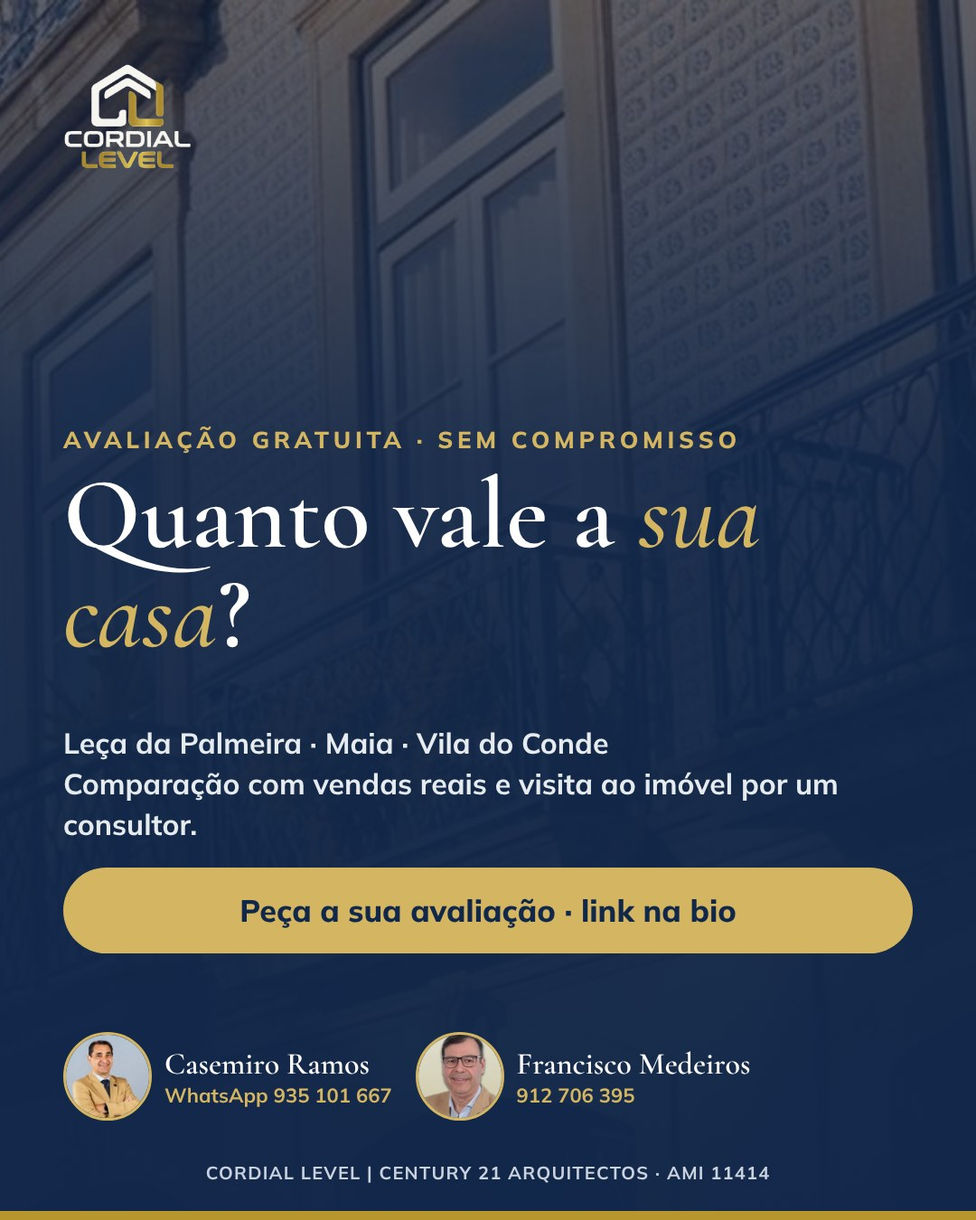
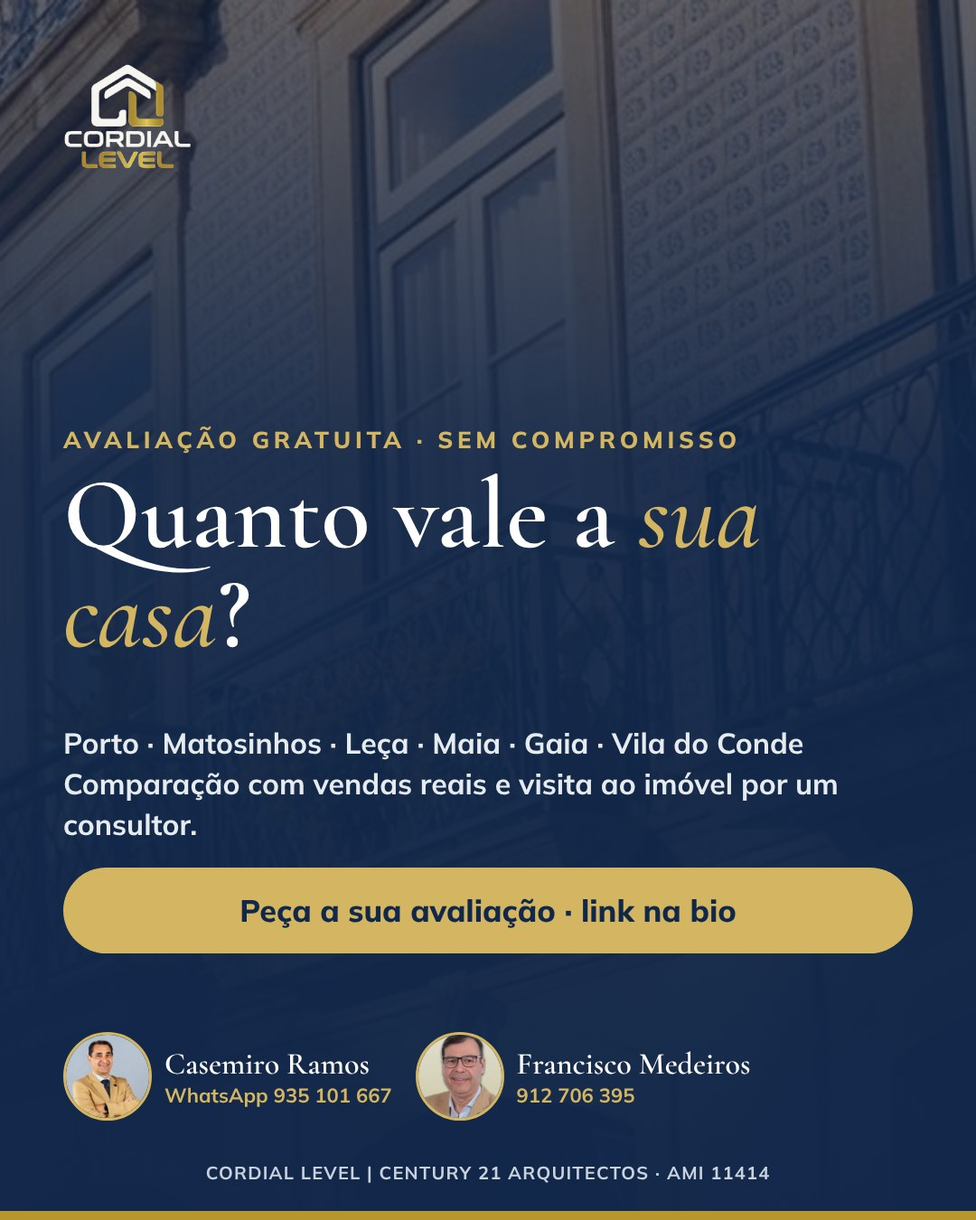
Avaliação Cordial: acrescenta Porto, Matosinhos e Gaia (página, SEO, blog, artes)
Claude-Session: https://claude.ai/code/session_01UTHG5rydr4nbrXrko1Yt6o

Changed region(s): [[0.0611, 0.5911, 0.825, 0.6222]]

diff --git a/blog/index.html b/blog/index.html
@@ -236,7 +236,7 @@ document.addEventListener('click',function(e){var a=e.target.closest&&e.target.c
 
 <header class="bh"><div class="wrap"><span class="eb">Blog Usina Vídeos</span><h1>Bastidores, ideias e mercados.</h1>
   <p class="lead">O que fazemos, como fazemos e o que está a mudar nos setores com que trabalhamos.</p><div class="bcats"><span>Bastidores e making of</span><span>Comunicação e marketing digital</span><span>Mercados</span><span>Cases</span></div></div></header>
-<main class="wrap bgrid"><a class="bc" href="/blog/quanto-vale-a-sua-casa-avaliacao-cordial-level/" style="--c:var(--y)"><img src="/img/blog/avaliacao-cordial-level-t.jpg" alt="" loading="lazy"><div><span>Mercados</span><h3>Quanto vale a sua casa? Porque um valor de portal não é uma avaliação</h3><p>A Cordial Level lança a avaliação de imóveis gratuita em Leça da Palmeira, Maia e Vila do Conde: comparação com vendas reais, visita ao imóvel e pedido em dois minutos por WhatsApp.</p><em>15 de novembro de 2026 · Freire Neto</em></div></a><a class="bc" href="/blog/casas-mais-caras-que-rendimentos-portugal-eurostat/" style="--c:var(--r)"><img src="/img/blog/racio-casas-rendimentos-t.jpg" alt="" loading="lazy"><div><span>Mercados</span><h3>Casas 60,8% mais caras face aos rendimentos: o que o dado do Eurostat significa para quem compra e para quem vende</h3><p>Entre 2015 e 2025, o rácio entre o preço das casas e os rendimentos subiu 60,8% em Portugal, a maior subida da UE (média: 6,8%). O comentário do Panorama Imobiliário.</p><em>10 de novembro de 2026 · Freire Neto</em></div></a><a class="bc" href="/blog/do-papel-a-tela-foz-do-douro/" style="--c:var(--g)"><img src="/img/blog/foz-do-papel-a-tela-t.jpg" alt="" loading="lazy"><div><span>Bastidores e making of</span><h3>Do papel à tela: um voo pela Foz do Douro</h3><p>Drone e câmara na mão pela Foz do Douro, dos molhes ao Jardim do Passeio Alegre: o novo filme de bastidores da Usina Vídeos, com Freire Neto e Sandra Freire.</p><em>9 de novembro de 2026 · Freire Neto</em></div></a><a class="bc" href="/blog/cordial-level-nas-lives-motores-e-acao/" style="--c:var(--y)"><img src="/img/blog/merchan-cordial-mea.jpg" alt="" loading="lazy"><div><span>Cases</span><h3>Cordial Level estreia-se nas lives do Motores e Ação</h3><p>A partir de agora, a Cordial Level é exibida e divulgada nas lives do Motores e Ação. A estreia foi na sexta-feira, 6 de novembro, com Freire Neto.</p><em>7 de novembro de 2026 · Freire Neto</em></div></a><a class="bc" href="/blog/t2-perafita-cordial-level/" style="--c:var(--r)"><img src="/img/blog/perafita-t2-t.jpg" alt="" loading="lazy"><div><span>Mercados</span><h3>T2 em Perafita: uma oportunidade especial com a Cordial Level</h3><p>Já à venda: T2 remodelado em Perafita, Matosinhos, com 83 m², lugar de garagem e arrumos, ao lado da A28, por 258 000 €. Vídeo com Francisco Medeiros e visita virtual 3D.</p><em>4 de novembro de 2026 · Freire Neto</em></div></a><a class="bc" href="/blog/em-breve-t2-perafita-moradia-senhora-da-hora/" style="--c:var(--g)"><img src="/img/blog/em-breve/moradia-drone-t.jpg" alt="" loading="lazy"><div><span>Bastidores e making of</span><h3>Em breve: T2 em Perafita e moradia T3+T2+T2 na Senhora da Hora</h3><p>Dias de gravação na CENTURY 21: dois imóveis em Matosinhos chegam em breve às redes sociais e aos portais. Saiba como ser o primeiro a conhecer os detalhes.</p><em>3 de novembro de 2026 · Freire Neto</em></div></a><a class="bc" href="/blog/dois-sites-novos-usinavideos-motoreseacao/" style="--c:var(--y)"><img src="/img/blog/sites-novos/capa-t.jpg" alt="" loading="lazy"><div><span>Cases</span><h3>Dois sites novos no ar: usinavideos.pt e motoreseacao.com</h3><p>A Usina Vídeos e o Motores e Ação estrearam sites novos. Mostramos as capas, as secções e o que cada um oferece.</p><em>2 de novembro de 2026 · Freire Neto</em></div></a><a class="bc" href="/blog/panorama-imobiliario-credito-jovem-2027/" style="--c:var(--r)"><img src="/web-stories/panorama-credito-jovem-2027/img/capa-blog-t.jpg" alt="" loading="lazy"><div><span>Mercados</span><h3>Panorama Imobiliário PT: crédito jovem em 2027 e três imóveis para conhecer</h3><p>No novo episódio, Francisco Medeiros e Freire Neto falam do mercado, da angariação e do crédito jovem, e apresentam três imóveis da Cordial Level.</p><em>29 de outubro de 2026 · Freire Neto</em></div></a><a class="bc" href="/blog/credito-jovem-comprar-casa-sem-entrada/" style="--c:var(--g)"><img src="/cordiallevel/anteroquental/img/aq-1-t.jpg" alt="" loading="lazy"><div><span>Mercados</span><h3>Crédito jovem: tem menos de 35 anos? Saiba como comprar casa sem entrada</h3><p>Garantia pública de até 15% e isenção de IMT e Imposto do Selo: quem tem direito, o que é preciso e até quando, em 2026.</p><em>27 de outubro de 2026 · Freire Neto</em></div></a><a class="bc" href="/blog/home-staging-antes-da-reportagem/" style="--c:var(--y)"><img src="/cordiallevel/t3leca/img/leca-1-t.jpg" alt="" loading="lazy"><div><span>Comunicação e marketing digital</span><h3>Home staging: o que fazer antes da sessão de fotografia e vídeo</h3><p>Arrumação, limpeza, luz e a ajuda de proprietários, inquilinos e consultor: o checklist para fotos e vídeos de imóveis que geram contactos.</p><em>27 de outubro de 2026 · Freire Neto</em></div></a><a class="bc" href="/blog/bastidores-condominio-coral-foz/" style="--c:var(--r)"><img src="/img/coral-fachada-t.jpg" alt="" loading="lazy"><div><span>Bastidores e making of</span><h3>Bastidores: como produzimos o T4+1 do Condomínio Coral, na Foz</h3><p>Fotografia, drone, vídeo com a consultora e uma página em quatro línguas: o making of de um imóvel premium na Foz do Douro.</p><em>27 de outubro de 2026 · Freire Neto</em></div></a><a class="bc" href="/blog/5-regras-video-que-gera-contactos/" style="--c:var(--g)"><img src="/img/foz-drone-t.jpg" alt="" loading="lazy"><div><span>Comunicação e marketing digital</span><h3>5 regras para um vídeo que gera contactos</h3><p>Gancho, legendas, formatos, contacto no ecrã e resposta rápida: o que separa um vídeo bonito de um vídeo que traz clientes.</p><em>27 de outubro de 2026 · Freire Neto</em></div></a><a class="bc" href="/blog/usina-videos-e-motores-e-acao/" style="--c:var(--y)"><img src="/img/mea-toro-t.jpg" alt="" loading="lazy"><div><span>Cases</span><h3>Usina Vídeos e Motores e Ação: a mesma casa desde 2002</h3><p>A produtora e a marca de jornalismo automóvel nasceram juntas. O que uma aprende, a outra aplica.</p><em>27 de outubro de 2026 · Freire Neto</em></div></a></main>
+<main class="wrap bgrid"><a class="bc" href="/blog/quanto-vale-a-sua-casa-avaliacao-cordial-level/" style="--c:var(--y)"><img src="/img/blog/avaliacao-cordial-level-t.jpg" alt="" loading="lazy"><div><span>Mercados</span><h3>Quanto vale a sua casa? Porque um valor de portal não é uma avaliação</h3><p>A Cordial Level lança a avaliação de imóveis gratuita no Porto, Matosinhos, Leça da Palmeira, Maia, Gaia e Vila do Conde: comparação com vendas reais, visita ao imóvel e pedido em dois minutos por WhatsApp.</p><em>15 de novembro de 2026 · Freire Neto</em></div></a><a class="bc" href="/blog/casas-mais-caras-que-rendimentos-portugal-eurostat/" style="--c:var(--r)"><img src="/img/blog/racio-casas-rendimentos-t.jpg" alt="" loading="lazy"><div><span>Mercados</span><h3>Casas 60,8% mais caras face aos rendimentos: o que o dado do Eurostat significa para quem compra e para quem vende</h3><p>Entre 2015 e 2025, o rácio entre o preço das casas e os rendimentos subiu 60,8% em Portugal, a maior subida da UE (média: 6,8%). O comentário do Panorama Imobiliário.</p><em>10 de novembro de 2026 · Freire Neto</em></div></a><a class="bc" href="/blog/do-papel-a-tela-foz-do-douro/" style="--c:var(--g)"><img src="/img/blog/foz-do-papel-a-tela-t.jpg" alt="" loading="lazy"><div><span>Bastidores e making of</span><h3>Do papel à tela: um voo pela Foz do Douro</h3><p>Drone e câmara na mão pela Foz do Douro, dos molhes ao Jardim do Passeio Alegre: o novo filme de bastidores da Usina Vídeos, com Freire Neto e Sandra Freire.</p><em>9 de novembro de 2026 · Freire Neto</em></div></a><a class="bc" href="/blog/cordial-level-nas-lives-motores-e-acao/" style="--c:var(--y)"><img src="/img/blog/merchan-cordial-mea.jpg" alt="" loading="lazy"><div><span>Cases</span><h3>Cordial Level estreia-se nas lives do Motores e Ação</h3><p>A partir de agora, a Cordial Level é exibida e divulgada nas lives do Motores e Ação. A estreia foi na sexta-feira, 6 de novembro, com Freire Neto.</p><em>7 de novembro de 2026 · Freire Neto</em></div></a><a class="bc" href="/blog/t2-perafita-cordial-level/" style="--c:var(--r)"><img src="/img/blog/perafita-t2-t.jpg" alt="" loading="lazy"><div><span>Mercados</span><h3>T2 em Perafita: uma oportunidade especial com a Cordial Level</h3><p>Já à venda: T2 remodelado em Perafita, Matosinhos, com 83 m², lugar de garagem e arrumos, ao lado da A28, por 258 000 €. Vídeo com Francisco Medeiros e visita virtual 3D.</p><em>4 de novembro de 2026 · Freire Neto</em></div></a><a class="bc" href="/blog/em-breve-t2-perafita-moradia-senhora-da-hora/" style="--c:var(--g)"><img src="/img/blog/em-breve/moradia-drone-t.jpg" alt="" loading="lazy"><div><span>Bastidores e making of</span><h3>Em breve: T2 em Perafita e moradia T3+T2+T2 na Senhora da Hora</h3><p>Dias de gravação na CENTURY 21: dois imóveis em Matosinhos chegam em breve às redes sociais e aos portais. Saiba como ser o primeiro a conhecer os detalhes.</p><em>3 de novembro de 2026 · Freire Neto</em></div></a><a class="bc" href="/blog/dois-sites-novos-usinavideos-motoreseacao/" style="--c:var(--y)"><img src="/img/blog/sites-novos/capa-t.jpg" alt="" loading="lazy"><div><span>Cases</span><h3>Dois sites novos no ar: usinavideos.pt e motoreseacao.com</h3><p>A Usina Vídeos e o Motores e Ação estrearam sites novos. Mostramos as capas, as secções e o que cada um oferece.</p><em>2 de novembro de 2026 · Freire Neto</em></div></a><a class="bc" href="/blog/panorama-imobiliario-credito-jovem-2027/" style="--c:var(--r)"><img src="/web-stories/panorama-credito-jovem-2027/img/capa-blog-t.jpg" alt="" loading="lazy"><div><span>Mercados</span><h3>Panorama Imobiliário PT: crédito jovem em 2027 e três imóveis para conhecer</h3><p>No novo episódio, Francisco Medeiros e Freire Neto falam do mercado, da angariação e do crédito jovem, e apresentam três imóveis da Cordial Level.</p><em>29 de outubro de 2026 · Freire Neto</em></div></a><a class="bc" href="/blog/credito-jovem-comprar-casa-sem-entrada/" style="--c:var(--g)"><img src="/cordiallevel/anteroquental/img/aq-1-t.jpg" alt="" loading="lazy"><div><span>Mercados</span><h3>Crédito jovem: tem menos de 35 anos? Saiba como comprar casa sem entrada</h3><p>Garantia pública de até 15% e isenção de IMT e Imposto do Selo: quem tem direito, o que é preciso e até quando, em 2026.</p><em>27 de outubro de 2026 · Freire Neto</em></div></a><a class="bc" href="/blog/home-staging-antes-da-reportagem/" style="--c:var(--y)"><img src="/cordiallevel/t3leca/img/leca-1-t.jpg" alt="" loading="lazy"><div><span>Comunicação e marketing digital</span><h3>Home staging: o que fazer antes da sessão de fotografia e vídeo</h3><p>Arrumação, limpeza, luz e a ajuda de proprietários, inquilinos e consultor: o checklist para fotos e vídeos de imóveis que geram contactos.</p><em>27 de outubro de 2026 · Freire Neto</em></div></a><a class="bc" href="/blog/bastidores-condominio-coral-foz/" style="--c:var(--r)"><img src="/img/coral-fachada-t.jpg" alt="" loading="lazy"><div><span>Bastidores e making of</span><h3>Bastidores: como produzimos o T4+1 do Condomínio Coral, na Foz</h3><p>Fotografia, drone, vídeo com a consultora e uma página em quatro línguas: o making of de um imóvel premium na Foz do Douro.</p><em>27 de outubro de 2026 · Freire Neto</em></div></a><a class="bc" href="/blog/5-regras-video-que-gera-contactos/" style="--c:var(--g)"><img src="/img/foz-drone-t.jpg" alt="" loading="lazy"><div><span>Comunicação e marketing digital</span><h3>5 regras para um vídeo que gera contactos</h3><p>Gancho, legendas, formatos, contacto no ecrã e resposta rápida: o que separa um vídeo bonito de um vídeo que traz clientes.</p><em>27 de outubro de 2026 · Freire Neto</em></div></a><a class="bc" href="/blog/usina-videos-e-motores-e-acao/" style="--c:var(--y)"><img src="/img/mea-toro-t.jpg" alt="" loading="lazy"><div><span>Cases</span><h3>Usina Vídeos e Motores e Ação: a mesma casa desde 2002</h3><p>A produtora e a marca de jornalismo automóvel nasceram juntas. O que uma aprende, a outra aplica.</p><em>27 de outubro de 2026 · Freire Neto</em></div></a></main>
 <section style="padding:0 0 56px"><div class="wrap"><div class="sb sb-us"><div class="sb-t"><span class="sb-eb">Siga a Usina Vídeos</span><h3>Bastidores e trabalhos novos todas as semanas.</h3><p>Reportagens, making of, vlogs e vídeos imobiliários nas redes da Usina e no canal Dicas do Freire, no YouTube.</p></div><div class="sb-l"><a class="sb-i sb-ig" href="https://www.instagram.com/usina.videos" target="_blank" rel="noopener"><svg viewBox="0 0 24 24" aria-hidden="true"><defs><linearGradient id="igg" x1="0" y1="1" x2="1" y2="0"><stop offset="0" stop-color="#FEDA75"/><stop offset=".45" stop-color="#D62976"/><stop offset="1" stop-color="#4F5BD5"/></linearGradient></defs><rect x="2" y="2" width="20" height="20" rx="6" fill="url(#igg)"/><circle cx="12" cy="12" r="4.4" fill="none" stroke="#fff" stroke-width="2"/><circle cx="17.3" cy="6.7" r="1.3" fill="#fff"/></svg><span><b>Instagram</b><small>@usina.videos</small></span><em>Seguir →</em></a><a class="sb-i sb-fb" href="https://www.facebook.com/profile.php?id=61596609981238" target="_blank" rel="noopener"><svg viewBox="0 0 24 24" aria-hidden="true"><circle cx="12" cy="12" r="10.5" fill="#1877F2"/><path d="M13.3 20v-6h2l.4-2.5h-2.4V10c0-.7.3-1.3 1.4-1.3h1.1V6.6c-.3 0-1-.1-1.9-.1-2 0-3.1 1.2-3.1 3.2v1.8H8.7V14h2.1v6z" fill="#fff"/></svg><span><b>Facebook</b><small>Usina Vídeos</small></span><em>Seguir →</em></a><a class="sb-i sb-yt" href="https://www.youtube.com/@DicasdoFreire?sub_confirmation=1" target="_blank" rel="noopener"><svg viewBox="0 0 24 24" aria-hidden="true"><rect x="1.5" y="5" width="21" height="14" rx="4" fill="#FF0033"/><path d="M10 9v6l5.2-3z" fill="#fff"/></svg><span><b>YouTube</b><small>Dicas do Freire · vlogs em Portugal</small></span><em>Subscrever →</em></a><a class="sb-i sb-in" href="https://www.linkedin.com/in/freireneto/" target="_blank" rel="noopener"><svg viewBox="0 0 24 24" aria-hidden="true"><rect x="2" y="2" width="20" height="20" rx="4" fill="#0A66C2"/><path d="M7 10h2.3v7H7zM8.1 6.5a1.3 1.3 0 1 1 0 2.6 1.3 1.3 0 0 1 0-2.6zM10.8 10H13v1c.3-.6 1.1-1.2 2.3-1.2 2.4 0 2.8 1.6 2.8 3.6V17h-2.3v-3.2c0-.8 0-1.8-1.1-1.8s-1.3.9-1.3 1.8V17h-2.3z" fill="#fff"/></svg><span><b>LinkedIn</b><small>Freire Neto</small></span><em>Seguir →</em></a></div></div></div></section>
 <footer><div class="wrap" style="display:block;margin-bottom:28px"><a class="meaimg" href="https://www.motoreseacao.com/?utm_source=usinavideos_blog&amp;utm_medium=banner&amp;utm_campaign=mea_top" target="_blank" rel="noopener"><img src="/img/banner-motoreseacao-1200x300.jpg" alt="Motores e Ação: antes de comprar carro, passa por aqui. Lançamentos, testes e ofertas no Brasil e em Portugal." width="1200" height="300" loading="lazy"></a><a class="meam" href="https://www.motoreseacao.com/?utm_source=usinavideos_blog&amp;utm_medium=banner&amp;utm_campaign=mea_top" target="_blank" rel="noopener" aria-label="Motores e Ação: antes de comprar carro, passa por aqui. Lançamentos, testes e ofertas no Brasil e em Portugal."><span class="mm-im"><img class="mm-car" src="/img/mea-toro-t.jpg" alt="" loading="lazy"><span class="mm-cap">Fiat Toro Ranch · imagem Fiat</span></span><span class="mm-bd"><img class="mm-lg" src="/img/logo/motores-e-acao-quadrado.jpg" alt="Motores e Ação" width="120" height="120" loading="lazy"><span><span class="mm-eb">Motores e Ação · desde 2002</span><b>Antes de comprar carro, passa por aqui.</b><span class="mm-p">Lançamentos, testes e ofertas · Brasil e Portugal</span></span></span><span class="mm-cta">Ver no motoreseacao.com →</span></a></div><div class="wrap">
   <a href="/" aria-label="Usina Vídeos · página inicial"><img src="/img/logo/usina-horizontal-claro.svg" alt="Usina Vídeos" width="1367" height="298"></a>

diff --git a/cordiallevel/avaliacao/index.html b/cordiallevel/avaliacao/index.html
@@ -3,8 +3,8 @@
 <head>
 <meta charset="utf-8">
 <meta name="viewport" content="width=device-width, initial-scale=1">
-<title>Avaliação de imóveis em Leça da Palmeira, Maia e Vila do Conde | Cordial Level</title>
-<meta name="description" content="Quanto vale a sua casa? Avaliação de mercado gratuita em Leça da Palmeira, Maia e Vila do Conde, com visita ao imóvel e comparação com vendas reais. Cordial Level | CENTURY 21 Arquitectos.">
+<title>Avaliação de imóveis no Porto, Matosinhos, Maia, Gaia e Vila do Conde | Cordial Level</title>
+<meta name="description" content="Quanto vale a sua casa? Avaliação de mercado gratuita no Porto, Matosinhos, Leça da Palmeira, Maia, Gaia e Vila do Conde, com visita ao imóvel e comparação com vendas reais. Cordial Level | CENTURY 21 Arquitectos.">
 <meta name="robots" content="index, follow, max-image-preview:large, max-snippet:-1, max-video-preview:-1">
 <link rel="canonical" href="https://usinavideos.pt/cordiallevel/avaliacao/">
 <meta property="og:title" content="Quanto vale a sua casa? Avaliação Cordial Level">
@@ -22,7 +22,7 @@
 <link rel="preconnect" href="https://fonts.googleapis.com">
 <link rel="preconnect" href="https://fonts.gstatic.com" crossorigin>
 <link href="https://fonts.googleapis.com/css2?family=Cormorant+Garamond:ital,wght@0,500;0,600;1,500&family=Mulish:wght@400;600;700&display=swap" rel="stylesheet">
-<script type="application/ld+json">{"@context": "https://schema.org", "@graph": [{"@type": "Service", "@id": "https://usinavideos.pt/cordiallevel/avaliacao/#servico", "name": "Avaliação de imóveis", "serviceType": "Avaliação de mercado de imóveis para venda", "url": "https://usinavideos.pt/cordiallevel/avaliacao/", "description": "Avaliação de mercado gratuita, com visita ao imóvel e comparação com vendas reais na zona.", "areaServed": [{"@type": "Place", "name": "Leça da Palmeira"}, {"@type": "Place", "name": "Matosinhos"}, {"@type": "Place", "name": "Maia"}, {"@type": "Place", "name": "Vila do Conde"}, {"@type": "Place", "name": "Grande Porto"}], "offers": {"@type": "Offer", "price": "0", "priceCurrency": "EUR", "description": "Avaliação gratuita e sem compromisso"}, "provider": {"@id": "https://usinavideos.pt/cordiallevel/#org"}}, {"@type": "RealEstateAgent", "@id": "https://usinavideos.pt/cordiallevel/#org", "name": "Cordial Level | CENTURY 21 Arquitectos", "url": "https://usinavideos.pt/cordiallevel/", "logo": "https://usinavideos.pt/cordiallevel/img/logo-cordial-level.png", "slogan": "A sua exigência, a nossa assinatura.", "sameAs": ["https://century21.pt/consultores/cramos", "https://www.instagram.com/cordiallevel", "https://www.facebook.com/cordiallevel", "https://www.youtube.com/@CordialLevelPT"], "employee": [{"@type": "Person", "name": "Casemiro Ramos", "jobTitle": "Consultor", "image": "https://usinavideos.pt/cordiallevel/img/casemiro.jpg"}, {"@type": "Person", "name": "Francisco Medeiros", "jobTitle": "Consultor", "telephone": "+351912706395", "email": "franciscomedeiros@century21.pt", "image": "https://usinavideos.pt/cordiallevel/img/francisco.jpg"}]}, {"@type": "FAQPage", "mainEntity": [{"@type": "Question", "name": "A avaliação tem algum custo?", "acceptedAnswer": {"@type": "Answer", "text": "Não. A avaliação de mercado é gratuita."}}, {"@type": "Question", "name": "Fico obrigado a vender com a Cordial Level?", "acceptedAnswer": {"@type": "Answer", "text": "Não. Recebe o valor e decide com calma. Se quiser avançar, apresentamos o plano de venda; se não quiser, fica com a informação."}}, {"@type": "Question", "name": "Como é calculado o valor?", "acceptedAnswer": {"@type": "Answer", "text": "Comparamos o seu imóvel com outros vendidos recentemente na mesma zona e ajustamos ao que só uma visita mostra: estado, obras, exposição solar, vistas e prédio."}}, {"@type": "Question", "name": "Posso pedir só para saber o valor?", "acceptedAnswer": {"@type": "Answer", "text": "Pode. Muitos proprietários pedem a avaliação para planear, sem data marcada para vender."}}, {"@type": "Question", "name": "O meu imóvel fica fora destas três zonas. Posso pedir?", "acceptedAnswer": {"@type": "Answer", "text": "Pode. Escolha \"Outra zona\" no formulário e indique a localidade na conversa com o consultor."}}, {"@type": "Question", "name": "Quem vê os meus dados?", "acceptedAnswer": {"@type": "Answer", "text": "Apenas os consultores da Cordial Level, para o contactar sobre este pedido. Não são partilhados nem vendidos a terceiros."}}]}, {"@type": "BreadcrumbList", "itemListElement": [{"@type": "ListItem", "position": 1, "name": "Cordial Level", "item": "https://usinavideos.pt/cordiallevel/"}, {"@type": "ListItem", "position": 2, "name": "Avaliação de imóveis", "item": "https://usinavideos.pt/cordiallevel/avaliacao/"}]}]}</script>
+<script type="application/ld+json">{"@context": "https://schema.org", "@graph": [{"@type": "Service", "@id": "https://usinavideos.pt/cordiallevel/avaliacao/#servico", "name": "Avaliação de imóveis", "serviceType": "Avaliação de mercado de imóveis para venda", "url": "https://usinavideos.pt/cordiallevel/avaliacao/", "description": "Avaliação de mercado gratuita, com visita ao imóvel e comparação com vendas reais na zona.", "areaServed": [{"@type": "Place", "name": "Porto"}, {"@type": "Place", "name": "Matosinhos"}, {"@type": "Place", "name": "Leça da Palmeira"}, {"@type": "Place", "name": "Maia"}, {"@type": "Place", "name": "Vila Nova de Gaia"}, {"@type": "Place", "name": "Vila do Conde"}, {"@type": "Place", "name": "Grande Porto"}], "offers": {"@type": "Offer", "price": "0", "priceCurrency": "EUR", "description": "Avaliação gratuita e sem compromisso"}, "provider": {"@id": "https://usinavideos.pt/cordiallevel/#org"}}, {"@type": "RealEstateAgent", "@id": "https://usinavideos.pt/cordiallevel/#org", "name": "Cordial Level | CENTURY 21 Arquitectos", "url": "https://usinavideos.pt/cordiallevel/", "logo": "https://usinavideos.pt/cordiallevel/img/logo-cordial-level.png", "slogan": "A sua exigência, a nossa assinatura.", "sameAs": ["https://century21.pt/consultores/cramos", "https://www.instagram.com/cordiallevel", "https://www.facebook.com/cordiallevel", "https://www.youtube.com/@CordialLevelPT"], "employee": [{"@type": "Person", "name": "Casemiro Ramos", "jobTitle": "Consultor", "image": "https://usinavideos.pt/cordiallevel/img/casemiro.jpg"}, {"@type": "Person", "name": "Francisco Medeiros", "jobTitle": "Consultor", "telephone": "+351912706395", "email": "franciscomedeiros@century21.pt", "image": "https://usinavideos.pt/cordiallevel/img/francisco.jpg"}]}, {"@type": "FAQPage", "mainEntity": [{"@type": "Question", "name": "A avaliação tem algum custo?", "acceptedAnswer": {"@type": "Answer", "text": "Não. A avaliação de mercado é gratuita."}}, {"@type": "Question", "name": "Fico obrigado a vender com a Cordial Level?", "acceptedAnswer": {"@type": "Answer", "text": "Não. Recebe o valor e decide com calma. Se quiser avançar, apresentamos o plano de venda; se não quiser, fica com a informação."}}, {"@type": "Question", "name": "Como é calculado o valor?", "acceptedAnswer": {"@type": "Answer", "text": "Comparamos o seu imóvel com outros vendidos recentemente na mesma zona e ajustamos ao que só uma visita mostra: estado, obras, exposição solar, vistas e prédio."}}, {"@type": "Question", "name": "Posso pedir só para saber o valor?", "acceptedAnswer": {"@type": "Answer", "text": "Pode. Muitos proprietários pedem a avaliação para planear, sem data marcada para vender."}}, {"@type": "Question", "name": "O meu imóvel fica fora destas zonas. Posso pedir?", "acceptedAnswer": {"@type": "Answer", "text": "Pode. Escolha \"Outra zona\" no formulário e indique a localidade na conversa com o consultor."}}, {"@type": "Question", "name": "Quem vê os meus dados?", "acceptedAnswer": {"@type": "Answer", "text": "Apenas os consultores da Cordial Level, para o contactar sobre este pedido. Não são partilhados nem vendidos a terceiros."}}]}, {"@type": "BreadcrumbList", "itemListElement": [{"@type": "ListItem", "position": 1, "name": "Cordial Level", "item": "https://usinavideos.pt/cordiallevel/"}, {"@type": "ListItem", "position": 2, "name": "Avaliação de imóveis", "item": "https://usinavideos.pt/cordiallevel/avaliacao/"}]}]}</script>
 <style>
 :root{
   --azul:#1B3A6B; --azul-escuro:#12284B; --dourado:#B8962E; --dourado-c:#D4B562; --creme:#F7F5F0;
@@ -61,6 +61,7 @@ header .btn{min-height:44px;padding:10px 18px;font-size:.92rem}
 .hero{background:linear-gradient(100deg,rgba(18,40,75,.96) 0%,rgba(18,40,75,.86) 55%,rgba(18,40,75,.55) 100%),url(/cordiallevel/img/capa-fachada.jpg) center/cover;color:#fff;padding:72px 0 80px}
 .hero .kicker{font:700 .78rem Mulish,sans-serif;letter-spacing:.18em;text-transform:uppercase;color:var(--dourado-c);margin-bottom:16px}
 .hero h1{color:#fff}
+.hero .zonas{font:700 .95rem Mulish,sans-serif;letter-spacing:.04em;color:var(--dourado-c);margin:14px 0 0}
 .hero h1 em{font-style:italic;color:var(--dourado-c)}
 .hero p.sub{font-size:1.15rem;max-width:52ch;margin:20px 0 30px;color:#E6EBF0}
 .hero ul{list-style:none;padding:0;margin:26px 0 0;display:flex;flex-wrap:wrap;gap:10px 22px;font-size:.95rem;color:#E6EBF0}
@@ -186,7 +187,8 @@ document.addEventListener('click',function(e){var a=e.target.closest&&e.target.c
 <div class="hero">
   <div class="w">
     <p class="kicker">Avaliação de imóveis · Grande Porto</p>
-    <h1>Quanto vale a sua casa em <em>Leça da Palmeira, Maia ou Vila do Conde</em>?</h1>
+    <h1>Quanto vale a sua casa no <em>Grande Porto</em>?</h1>
+    <p class="zonas">Porto · Matosinhos · Leça da Palmeira · Maia · Gaia · Vila do Conde</p>
     <p class="sub">Uma avaliação de mercado feita por consultores que conhecem a sua zona, com base em vendas reais e numa visita ao imóvel.</p>
     <a class="btn btn-ouro" href="#avaliacao">Pedir a minha avaliação</a>
     <ul>
@@ -264,7 +266,7 @@ document.addEventListener('click',function(e){var a=e.target.closest&&e.target.c
       <div class="cartao" style="background:var(--creme)">
         <h3>É para si se</h3>
         <ul>
-          <li>Tem um imóvel em Leça da Palmeira, Maia ou Vila do Conde</li>
+          <li>Tem um imóvel no Porto, Matosinhos, Leça da Palmeira, Maia, Gaia ou Vila do Conde</li>
           <li>Pensa vender agora ou nos próximos meses</li>
           <li>Herdou um imóvel e precisa de saber o que vale</li>
           <li>Quer decidir com números, antes de qualquer compromisso</li>
@@ -295,7 +297,7 @@ document.addEventListener('click',function(e){var a=e.target.closest&&e.target.c
         <div class="campo"><label for="zona">Onde fica o imóvel</label>
           <select id="zona" required>
             <option value="">Escolha a zona</option>
-            <option>Leça da Palmeira</option><option>Maia</option><option>Vila do Conde</option><option>Outra zona</option>
+            <option>Porto</option><option>Matosinhos</option><option>Leça da Palmeira</option><option>Maia</option><option>Vila Nova de Gaia</option><option>Vila do Conde</option><option>Outra zona</option>
           </select></div>
         <div class="campo"><label for="tipo">Tipo de imóvel</label>
           <select id="tipo" required>
@@ -371,7 +373,7 @@ document.addEventListener('click',function(e){var a=e.target.closest&&e.target.c
     <details><summary>Fico obrigado a vender com a Cordial Level?</summary><p>Não. Recebe o valor e decide com calma. Se quiser avançar, apresentamos o plano de venda; se não quiser, fica com a informação.</p></details>
     <details><summary>Como é calculado o valor?</summary><p>Comparamos o seu imóvel com outros vendidos recentemente na mesma zona e ajustamos ao que só uma visita mostra: estado, obras, exposição solar, vistas e prédio.</p></details>
     <details><summary>Posso pedir só para saber o valor?</summary><p>Pode. Muitos proprietários pedem a avaliação para planear, sem data marcada para vender.</p></details>
-    <details><summary>O meu imóvel fica fora destas três zonas. Posso pedir?</summary><p>Pode. Escolha "Outra zona" no formulário e indique a localidade na conversa com o consultor.</p></details>
+    <details><summary>O meu imóvel fica fora destas zonas. Posso pedir?</summary><p>Pode. Escolha "Outra zona" no formulário e indique a localidade na conversa com o consultor.</p></details>
     <details><summary>Quem vê os meus dados?</summary><p>Apenas os consultores da Cordial Level, para o contactar sobre este pedido. Não são partilhados nem vendidos a terceiros.</p></details>
   </div>
 </section>
@@ -408,7 +410,7 @@ document.addEventListener('click',function(e){var a=e.target.closest&&e.target.c
     var q=new URLSearchParams(location.search);
     origem=[q.get('utm_source'),q.get('utm_campaign')].filter(Boolean).join(' / ');
     var z=q.get('zona'); // ex.: ?zona=Maia pré-seleciona a zona a partir do anúncio
-    if(z){Array.prototype.forEach.call(g('zona').options,function(o){if(o.text.toLowerCase()===z.toLowerCase())g('zona').value=o.text})}
+    if(z){Array.prototype.forEach.call(g('zona').options,function(o){if(o.text.toLowerCase()===z.toLowerCase()||(z.toLowerCase()==='gaia'&&o.text==='Vila Nova de Gaia'))g('zona').value=o.text})}
   }catch(e){}
 
   f.addEventListener('submit',function(ev){

diff --git a/blog/quanto-vale-a-sua-casa-avaliacao-cordial-level/index.html b/blog/quanto-vale-a-sua-casa-avaliacao-cordial-level/index.html
@@ -4,10 +4,10 @@
 <meta charset="utf-8">
 <meta name="viewport" content="width=device-width, initial-scale=1">
 <title>Quanto vale a sua casa? Porque um valor de portal não é uma avaliação · Usina Vídeos</title>
-<meta name="description" content="A Cordial Level lança a avaliação de imóveis gratuita em Leça da Palmeira, Maia e Vila do Conde: comparação com vendas reais, visita ao imóvel e pedido em dois minutos por WhatsApp.">
+<meta name="description" content="A Cordial Level lança a avaliação de imóveis gratuita no Porto, Matosinhos, Leça da Palmeira, Maia, Gaia e Vila do Conde: comparação com vendas reais, visita ao imóvel e pedido em dois minutos por WhatsApp.">
 <link rel="canonical" href="https://usinavideos.pt/blog/quanto-vale-a-sua-casa-avaliacao-cordial-level/">
 <meta name="robots" content="index, follow, max-image-preview:large">
-<meta property="og:title" content="Quanto vale a sua casa? Porque um valor de portal não é uma avaliação · Usina Vídeos"><meta property="og:description" content="A Cordial Level lança a avaliação de imóveis gratuita em Leça da Palmeira, Maia e Vila do Conde: comparação com vendas reais, visita ao imóvel e pedido em dois minutos por WhatsApp."><meta property="og:url" content="https://usinavideos.pt/blog/quanto-vale-a-sua-casa-avaliacao-cordial-level/">
+<meta property="og:title" content="Quanto vale a sua casa? Porque um valor de portal não é uma avaliação · Usina Vídeos"><meta property="og:description" content="A Cordial Level lança a avaliação de imóveis gratuita no Porto, Matosinhos, Leça da Palmeira, Maia, Gaia e Vila do Conde: comparação com vendas reais, visita ao imóvel e pedido em dois minutos por WhatsApp."><meta property="og:url" content="https://usinavideos.pt/blog/quanto-vale-a-sua-casa-avaliacao-cordial-level/">
 <meta property="og:type" content="article"><meta property="og:image" content="https://usinavideos.pt/img/blog/avaliacao-cordial-level.jpg"><meta property="og:site_name" content="Usina Vídeos"><meta property="og:locale" content="pt_PT">
 <meta name="twitter:card" content="summary_large_image">
 <link rel="alternate" type="application/rss+xml" title="Blog Usina Vídeos" href="https://usinavideos.pt/blog/feed.xml">
@@ -15,7 +15,7 @@
 <link rel="icon" href="/img/logo/usina-simbolo.svg" type="image/svg+xml">
 <link rel="preconnect" href="https://fonts.googleapis.com"><link rel="preconnect" href="https://fonts.gstatic.com" crossorigin>
 <link href="https://fonts.googleapis.com/css2?family=Mulish:wght@400;600;700;800;900&display=swap" rel="stylesheet">
-<script type="application/ld+json">{"@context": "https://schema.org", "@type": "BlogPosting", "headline": "Quanto vale a sua casa? Porque um valor de portal não é uma avaliação", "description": "A Cordial Level lança a avaliação de imóveis gratuita em Leça da Palmeira, Maia e Vila do Conde: comparação com vendas reais, visita ao imóvel e pedido em dois minutos por WhatsApp.", "image": "https://usinavideos.pt/img/blog/avaliacao-cordial-level.jpg", "datePublished": "2026-11-15", "dateModified": "2026-11-15", "author": {"@type": "Person", "name": "Freire Neto", "url": "https://www.linkedin.com/in/freireneto/"}, "publisher": {"@type": "Organization", "@id": "https://usinavideos.pt/#usina", "name": "Usina Vídeos", "logo": {"@type": "ImageObject", "url": "https://usinavideos.pt/img/logo/usina-horizontal-1200.png"}}, "mainEntityOfPage": "https://usinavideos.pt/blog/quanto-vale-a-sua-casa-avaliacao-cordial-level/", "inLanguage": "pt-PT", "articleSection": "Mercados"}</script>
+<script type="application/ld+json">{"@context": "https://schema.org", "@type": "BlogPosting", "headline": "Quanto vale a sua casa? Porque um valor de portal não é uma avaliação", "description": "A Cordial Level lança a avaliação de imóveis gratuita no Porto, Matosinhos, Leça da Palmeira, Maia, Gaia e Vila do Conde: comparação com vendas reais, visita ao imóvel e pedido em dois minutos por WhatsApp.", "image": "https://usinavideos.pt/img/blog/avaliacao-cordial-level.jpg", "datePublished": "2026-11-15", "dateModified": "2026-11-15", "author": {"@type": "Person", "name": "Freire Neto", "url": "https://www.linkedin.com/in/freireneto/"}, "publisher": {"@type": "Organization", "@id": "https://usinavideos.pt/#usina", "name": "Usina Vídeos", "logo": {"@type": "ImageObject", "url": "https://usinavideos.pt/img/logo/usina-horizontal-1200.png"}}, "mainEntityOfPage": "https://usinavideos.pt/blog/quanto-vale-a-sua-casa-avaliacao-cordial-level/", "inLanguage": "pt-PT", "articleSection": "Mercados"}</script>
 <style>
 :root{--ink:#141213;--ink2:#1E1B1C;--line:#34302F;--paper:#F7F5F0;--paper2:#EFEBE4;--fg:#F2F0EB;--muted:#A9A3A0;--txt:#3B3634;--y:#E5AE29;--r:#D0252F;--g:#3EB15C;--mea:#004D9A;--mea-l:#2F7FD0}
 *{box-sizing:border-box}html{scroll-behavior:smooth;scroll-padding-top:72px}
@@ -239,7 +239,7 @@ document.addEventListener('click',function(e){var a=e.target.closest&&e.target.c
   <p class="meta">15 de novembro de 2026 · por <a href="https://www.linkedin.com/in/freireneto/" target="_blank" rel="noopener">Freire Neto</a></p>
   <img class="hero" src="/img/blog/avaliacao-cordial-level.jpg" srcset="/img/blog/avaliacao-cordial-level-t.jpg 900w, /img/blog/avaliacao-cordial-level.jpg 1920w" sizes="(max-width: 800px) 100vw, 760px" alt="" fetchpriority="high"><p class="cap">Avaliação de imóveis Cordial Level · arte Usina Vídeos</p>
   <p class="imp">Quem pensa vender casa começa quase sempre pela mesma pergunta: quanto vale? A resposta certa não está num simulador.</p>
-  <p>A <b>Cordial Level</b> (CENTURY 21 Arquitectos) abriu uma página própria para os proprietários de <b>Leça da Palmeira, Maia e Vila do Conde</b> pedirem a avaliação de mercado do seu imóvel. É gratuita, sem compromisso, e o pedido segue em dois minutos por WhatsApp, diretamente para os consultores.</p>
+  <p>A <b>Cordial Level</b> (CENTURY 21 Arquitectos) abriu uma página própria para os proprietários do <b>Porto, Matosinhos, Leça da Palmeira, Maia, Gaia e Vila do Conde</b> pedirem a avaliação de mercado do seu imóvel. É gratuita, sem compromisso, e o pedido segue em dois minutos por WhatsApp, diretamente para os consultores.</p>
 <p><a href="/cordiallevel/avaliacao/?utm_source=blog&amp;utm_campaign=avaliacao" style="display:inline-block;background:#D4B562;color:#12284B;font-weight:700;padding:14px 24px;border-radius:999px;text-decoration:none">Pedir a avaliação da minha casa</a></p>
 <h2>Uma casa são três casas</h2>
 <p>No Panorama Imobiliário PT, o consultor <b>Francisco Medeiros</b> explicou a ideia com uma imagem simples: há a casa onde o proprietário vive, com os seus móveis e a sua história; a casa que é preparada para fotografia e vídeo; e a casa que o comprador vai ver. São três olhares diferentes, e o preço tem de falar com o último.</p>

diff --git a/_tools/blog.py b/_tools/blog.py
@@ -26,10 +26,10 @@ CATS = {'bastidores': 'Bastidores e making of', 'comunicacao': 'Comunicação e 
 POSTS = [
     dict(slug='quanto-vale-a-sua-casa-avaliacao-cordial-level', cat='mercados', date='2026-11-15',
          title='Quanto vale a sua casa? Porque um valor de portal não é uma avaliação',
-         desc='A Cordial Level lança a avaliação de imóveis gratuita em Leça da Palmeira, Maia e Vila do Conde: comparação com vendas reais, visita ao imóvel e pedido em dois minutos por WhatsApp.',
+         desc='A Cordial Level lança a avaliação de imóveis gratuita no Porto, Matosinhos, Leça da Palmeira, Maia, Gaia e Vila do Conde: comparação com vendas reais, visita ao imóvel e pedido em dois minutos por WhatsApp.',
          img='/img/blog/avaliacao-cordial-level.jpg', img_cap='Avaliação de imóveis Cordial Level · arte Usina Vídeos',
          lead='Quem pensa vender casa começa quase sempre pela mesma pergunta: quanto vale? A resposta certa não está num simulador.',
-         body='''<p>A <b>Cordial Level</b> (CENTURY 21 Arquitectos) abriu uma página própria para os proprietários de <b>Leça da Palmeira, Maia e Vila do Conde</b> pedirem a avaliação de mercado do seu imóvel. É gratuita, sem compromisso, e o pedido segue em dois minutos por WhatsApp, diretamente para os consultores.</p>
+         body='''<p>A <b>Cordial Level</b> (CENTURY 21 Arquitectos) abriu uma página própria para os proprietários do <b>Porto, Matosinhos, Leça da Palmeira, Maia, Gaia e Vila do Conde</b> pedirem a avaliação de mercado do seu imóvel. É gratuita, sem compromisso, e o pedido segue em dois minutos por WhatsApp, diretamente para os consultores.</p>
 <p><a href="/cordiallevel/avaliacao/?utm_source=blog&amp;utm_campaign=avaliacao" style="display:inline-block;background:#D4B562;color:#12284B;font-weight:700;padding:14px 24px;border-radius:999px;text-decoration:none">Pedir a avaliação da minha casa</a></p>
 <h2>Uma casa são três casas</h2>
 <p>No Panorama Imobiliário PT, o consultor <b>Francisco Medeiros</b> explicou a ideia com uma imagem simples: há a casa onde o proprietário vive, com os seus móveis e a sua história; a casa que é preparada para fotografia e vídeo; e a casa que o comprador vai ver. São três olhares diferentes, e o preço tem de falar com o último.</p>
